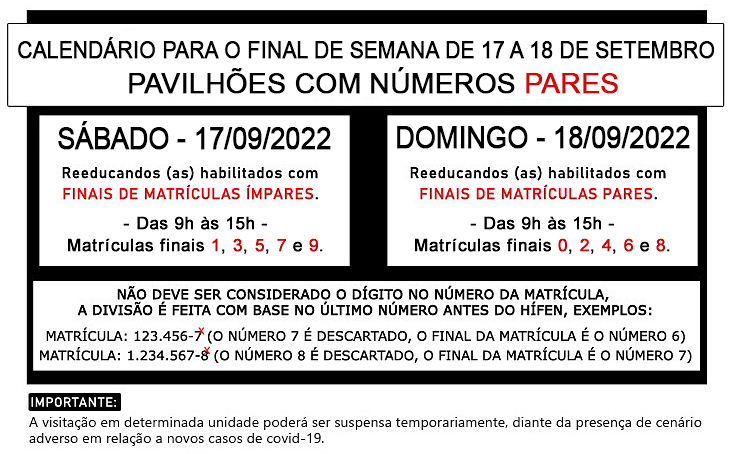
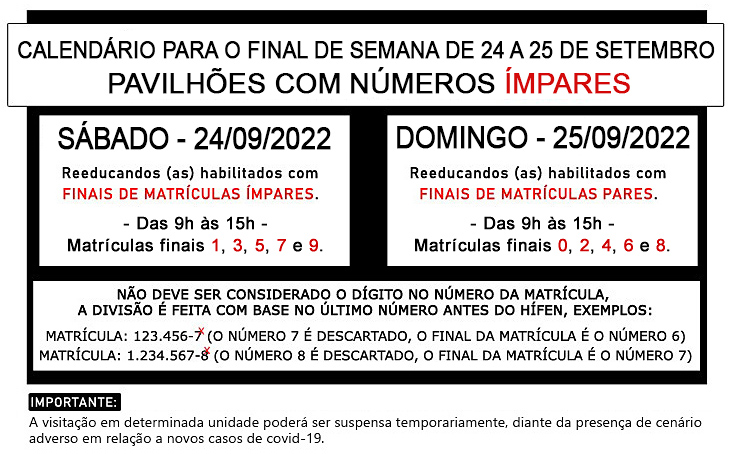
calendario 20-09-2022

diff --git a/calendario.html b/calendario.html
@@ -30,7 +30,7 @@
       <section>
         <h2>Calendário de Visitação</h2>
         <img src="imagens/calendario.jpg" alt="Calendário de Visitação">
-        <p style="text-align: center;">Atualizado dia 14/09/2022</p>
+        <p style="text-align: center;">Atualizado dia 20/09/2022</p>
       </section>
     </main>
 </body>
